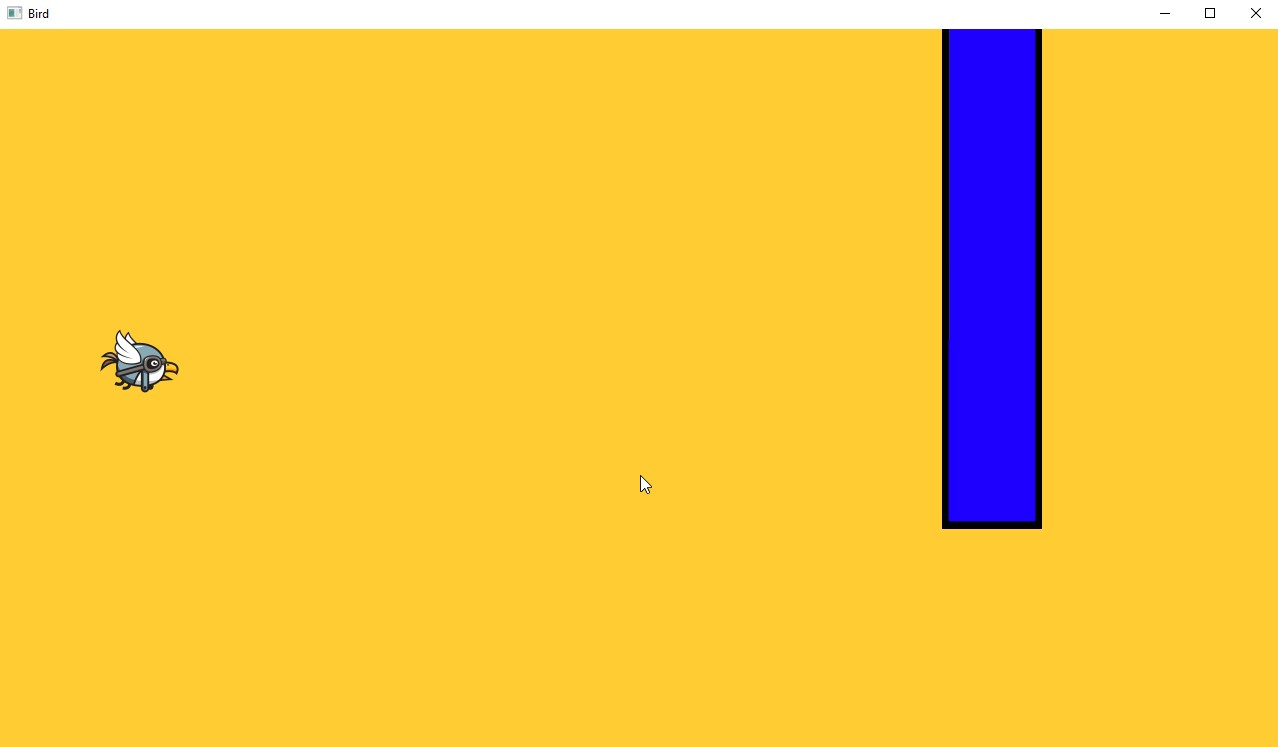
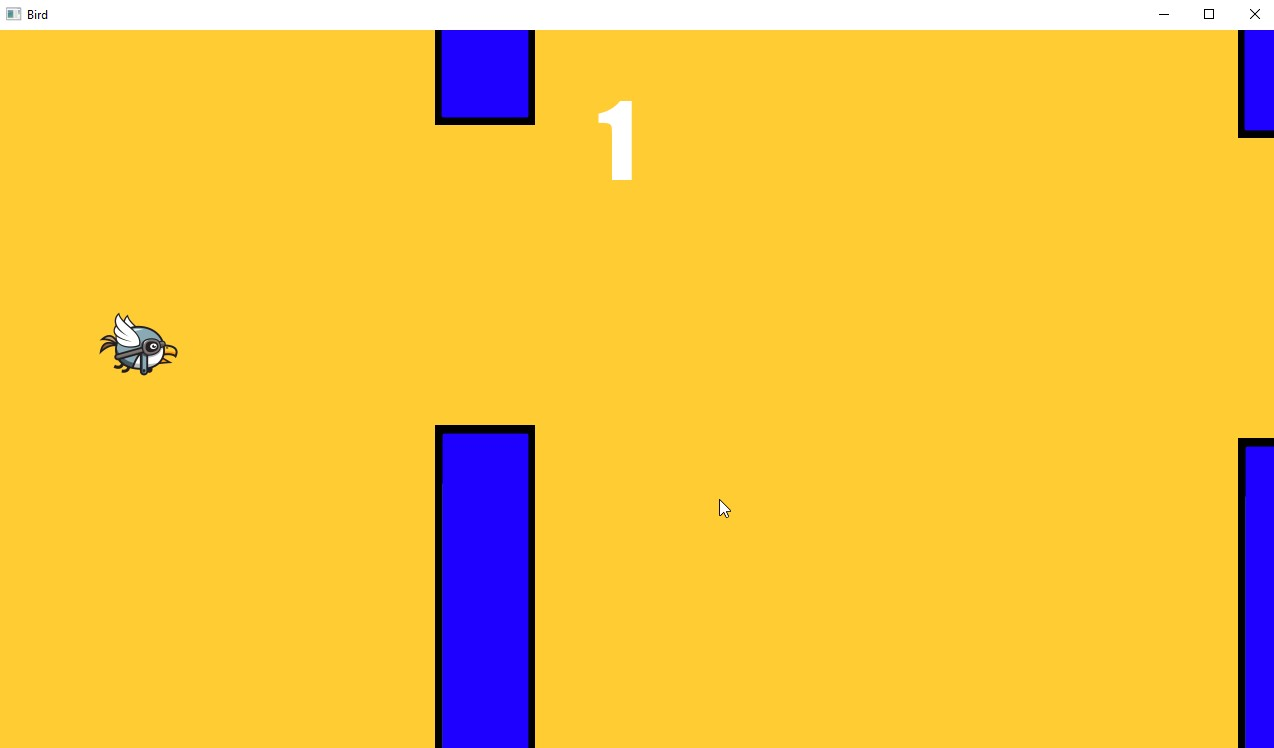
add barrier

diff --git a/bird-game/src/game.cpp b/bird-game/src/game.cpp
@@ -65,6 +65,8 @@ void Game::start(sf::RenderWindow& window) {
 	m_score_text.setPosition(600, 50);
 	m_score_text.setFont(m_font);
 	m_score_text.setCharacterSize(100);
+	m_score_text.setOutlineColor(sf::Color::Black);
+	m_score_text.setOutlineThickness(2);
 
 	while (window.isOpen() && m_game_state == GameState::ON) {
 
@@ -119,7 +121,7 @@ void Game::start(sf::RenderWindow& window) {
 		}
 
 		for (int i = 0; i < m_barrier_deque.size(); i += 2) {
-			if (m_bird.getPosition().left > m_barrier_deque[i].get_x() && m_bird.getPosition().left < m_barrier_deque[i].get_x() + 7) {
+			if (m_bird.getPosition().left > m_barrier_deque[i].get_x() && m_bird.getPosition().left < m_barrier_deque[i].get_x() + 8) {
 				m_score_number++;
 				std::string score;
 				score = std::to_string(m_score_number);
